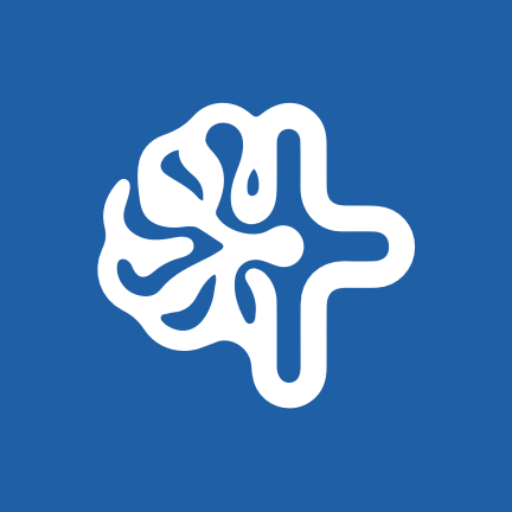
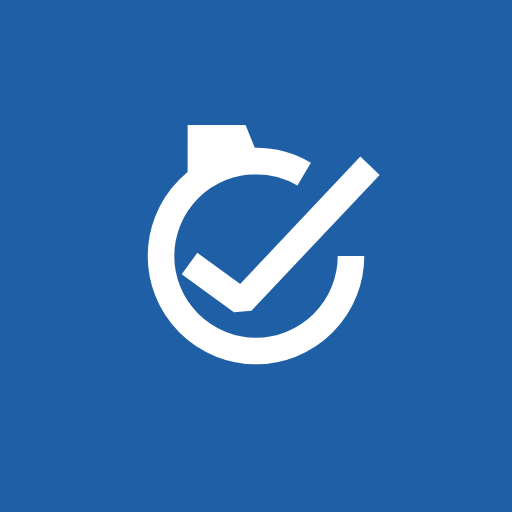
Un chronomètre coché à onglet remplace la marque, et l'icône thématisée cesse d'être devinée
La marque servie était un glyphe hérité que rien ne reliait au produit. À sa place, un
chronomètre dont la coupure laisse sortir une coche, surmonté d'un onglet d'intercalaire :
le temps, la validation et le protocole dans un seul signe, d'un trait d'épaisseur constante
et à bouts coupés (identité de marque v1 — SF Symbols et Material 3 arrondissent, mais
l'arrondi date sa décennie).

TROIS CALAGES QUI NE SE DEVINENT PAS À LA RELECTURE, tous mesurés.
(1) La coupure de l'anneau est bornée à 300°-360°. Ouverte à 282°, c'est-à-dire quasiment à
midi, elle laissait la moitié droite de l'onglet SANS ANNEAU DESSOUS — porte-à-faux visible.
(2) L'onglet descend jusqu'au bord INTÉRIEUR du trait : une barre droite ne peut pas rester
tangente à un cercle, elle doit le traverser, sinon ses extrémités décrochent. Il n'entamait
la bande que de 6 unités, soit moins d'un pixel à l'écran — un frôlement, pas une jonction.
(3) Il est TRAPÉZOÏDAL et décalé de 62 unités à gauche. En rectangle, son bord droit coupait
l'arc à angle vif et l'ensemble se lisait comme un col de fiole ; le bord incliné rencontre le
cercle extérieur à 0,01 unité près SUR l'arc, donc tangentiellement. Le décalage est FRANC à
dessein : essayé à 36 unités, il se lisait comme un défaut de centrage — et le décalage ne
peut aller qu'à gauche, le secteur haut-droit étant pris par la sortie de la coche.

L'ÉCHELLE EST DICTÉE PAR MATERIAL, PAS PAR APPLE : l'icône adaptative ne garantit qu'un disque
[…]

Changed region(s): [[0.1875, 0.1875, 0.8125, 0.8125]]

diff --git a/sw.js b/sw.js
@@ -53,6 +53,7 @@ const ASSETS = [
   './icon-192-maskable.png',
   './icon-512.png',
   './icon-512-maskable.png',
+  './icon-monochrome-512.png',
   './apple-touch-icon.png',
   './favicon-16.png',
   './favicon-32.png',
